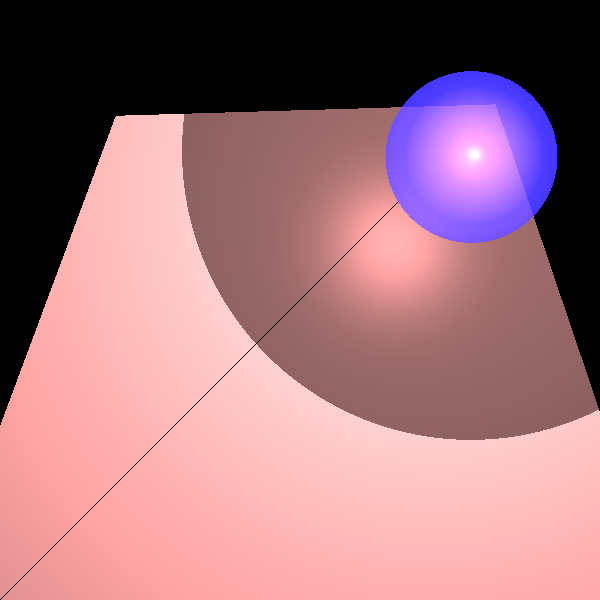
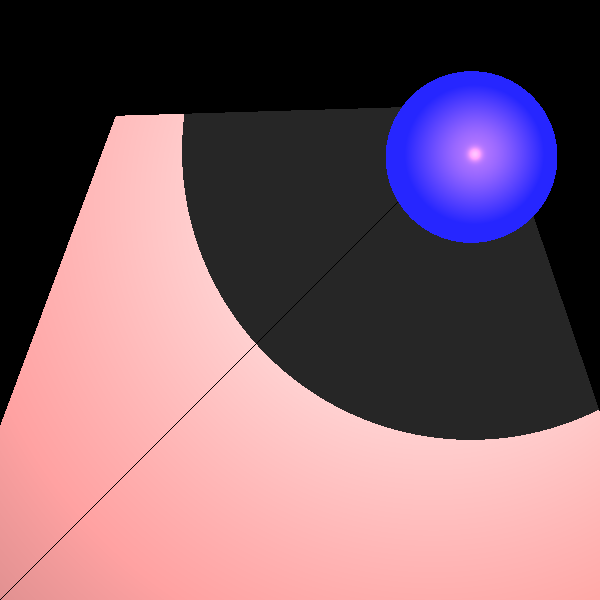
with bowling:)

diff --git a/unitTests/renderer/level7Test.java b/unitTests/renderer/level7Test.java
@@ -2,6 +2,8 @@ package renderer;
 
 import geometries.*;
 import lighting.AmbientLight;
+import lighting.DirectionalLight;
+import lighting.PointLight;
 import lighting.SpotLight;
 import org.junit.jupiter.api.Test;
 import primitives.*;
@@ -15,10 +17,10 @@ public class level7Test {
     /** Camera builder of the tests */
     private final Camera.Builder camera     = Camera.getBuilder()
             .setDirection(new Vector(0, 0, -1), new Vector(0, 1, 0))
+            .setLocation(new Point(0, 0, 1000)).setVpDistance(1000)
             .setLocation(new Point(30, 20, 1000)).setVpDistance(1000)
             .setVpSize(200, 200)
             .setRayTracer(new SimpleRayTracer(scene));
-
     // private final Scene          scene         = new Scene("Test scene");
     /** Camera builder for the tests with triangles */
     private final Camera.Builder cameraBuilder = Camera.getBuilder()
@@ -26,35 +28,28 @@ public class level7Test {
             .setRayTracer(new SimpleRayTracer(scene));
 
     /** The sphere in the tests */
-    private final Intersectable sphere     = new Sphere(new Point(0, -50, -200), 60d)
+    private final Intersectable sphere     = new Sphere(new Point(0, 0, -750), 60d)
             .setEmission(new Color(RED))
             .setMaterial(new Material().setKd(0.5).setKs(0.5).setShininess(30));
     /** The material of the triangles in the tests */
     private final Material       trMaterial = new Material().setKd(0.5).setKs(0.5).setShininess(30);
 
-    /** Helper function for the tests in this module
-     * @param pictName     the name of the picture generated by a test
-     * @param triangle     the triangle in the test
-     * @param spotLocation the spotlight location in the test */
-    private void sphereTriangleHelper(String pictName, Sphere triangle, Point spotLocation) {
-        scene.geometries.add(sphere, triangle.setEmission(new Color(BLUE)).setMaterial(trMaterial));
+    @Test
+    public void Move2() {
+        Sphere s=new Sphere(new Point(-49, -40, 200),10d);
+        Point spotLocation=new Point(900, 900, -1000);
+        scene.geometries.add(sphere, s.setEmission(new Color(BLUE)).setMaterial(trMaterial));
         scene.lights.add( //
                 new SpotLight(new Color(400, 240, 0), spotLocation, new Vector(1, 1, -3)) //
                         .setKl(1E-5).setKq(1.5E-7));
 
-        camera.setImageWriter(new ImageWriter(pictName, 1000, 1000))
+        camera.setImageWriter(new ImageWriter("Move2", 1000, 1000))
                 .build()
                 .renderImage() //
                 .writeToImage();
     }
 
-    /** Sphere-Triangle shading - move triangle upper-righter */
-    @Test
-    public void sphereTriangleMove2() {
-        sphereTriangleHelper("Move2", //
-                new Sphere(new Point(75, 47, 300),15d), //
-                new Point(900, 900, -1000));
-    }
+
 
 
     @Test
@@ -97,51 +92,24 @@ public class level7Test {
                 .renderImage()
                 .writeToImage();
     }
-    @Test
-    public void l7() {
-        scene.geometries.add(
-                new Sphere(new Point(-200, -200, -3), 50d).setEmission(new Color(YELLOW))
-                        .setMaterial(new Material().setKd(0.5).setKs(0.5).setShininess(30)),
-                new Sphere(new Point(-400, -200, 0), 20).setEmission(new Color(RED))
-                        .setMaterial(new Material().setKd(0.5).setKs(0.5).setShininess(30)),
-                new Sphere(new Point(0, 30, 0), 10).setEmission(new Color(PINK))
-                        .setMaterial(new Material().setKd(0.5).setKs(0.5).setShininess(30)),
-                new Sphere(new Point(0, -660, -400), 50d).setEmission(new Color(RED))
-                        .setMaterial(new Material().setKd(0.5).setKs(0.5).setShininess(30)),
-                new Sphere(new Point(120, -600, -400), 50).setEmission(new Color(PINK))
-                        .setMaterial(new Material().setKd(0.5).setKs(0.5).setShininess(30)),
-                new Sphere(new Point(120, -620, -400), 50d).setEmission(new Color(RED))
-                        .setMaterial(new Material().setKd(0.5).setKs(0.5).setShininess(30)),
-                new Sphere(new Point(120, -640, -400), 50).setEmission(new Color(PINK))
-                        .setMaterial(new Material().setKd(0.5).setKs(0.5).setShininess(30)),
-                new Sphere(new Point(120, -660, -400), 50d).setEmission(new Color(RED))
-                        .setMaterial(new Material().setKd(0.5).setKs(0.5).setShininess(30)),
-                new Sphere(new Point(120, -700, -400), 50d).setEmission(new Color(WHITE))
-                        .setMaterial(new Material().setKd(0.5).setKs(0.5).setShininess(30)),
-                new Sphere(new Point(0, -700, -400), 50d).setEmission(new Color(WHITE))
-                        .setMaterial(new Material().setKd(0.5).setKs(0.5).setShininess(30)));
-//                new Cylinder(10.0,new Ray(new Point(0, -400, 0),new Vector(1 ,0, 0),new Vector(0, 1, 0)),50)
-//                        .setEmission(new Color(yellow)).setMaterial(new Material().setKd(0.5).setKs(0.5).setShininess(30)));
-//                new Tube(new Ray(new Point(550, 0, -550),new Vector(1 ,0, 0),new Vector(1, 1, 0)),40)
-//                        .setEmission(new Color(yellow)).setMaterial(new Material().setKd(0.5).setKs(0.5).setShininess(30)),
-//                 new Tube(new Ray(new Point(700, 80, -700),new Vector(1 ,0, 0),new Vector(1, 1, 0)),40));
-//        scene.lights.add(
-//                new SpotLight(new Color(400, 240, 0), new Point(-200, -200, 0), new Vector(1, 1, -3))
-//                        .setKl(1E-5).setKq(1.5E-7));
 
-        scene.lights.add(
-                new SpotLight(new Color(400, 240, 0), new Point(0, 1, 0), new Vector(1, 1, 1))
-                        .setKl(1E-5).setKq(1.5E-7));
 
-        //   scene.background= new Color(25,250,60);
-        cameraBuilder.setLocation(new Point(0, -30, 1000)).setVpDistance(1000)
-                .setVpSize(1000, 1000)
-                .setImageWriter(new ImageWriter("move 2" +
-                        "", 1000, 1000))
-                .build()
-                .renderImage()
-                .writeToImage();
+
+
+
+
+
+
+
+
+
+
+
+
     }
 
-}
+
+
+
+
 

diff --git a/unitTests/renderer/TestForProject.java b/unitTests/renderer/TestForProject.java
@@ -1,0 +1,94 @@
+package renderer;
+
+import java.util.*;
+import primitives.*;
+import geometries.*;
+import primitives.Vector;
+import renderer.*;
+import lighting.*;
+import org.junit.jupiter.api.Test;
+import scene.Scene;
+
+import static java.awt.Color.*;
+
+public class TestForProject{
+
+    private Scene scene = new Scene("Bowling Scene");
+
+    public void addPin(Point p)
+    {
+        scene.geometries.add(
+                new Sphere(new Point(p.getX(), 1.1, p.getZ()), 2).setEmission(new Color(WHITE))
+                ,new Cylinder(2.2,new Ray(new Point(p.getX(), 0.6, p.getZ()), new Vector(0, 1, 0)), 2).setEmission(new Color(WHITE))
+                ,new Sphere(new Point(p.getX(), 3.1, p.getZ()), 2).setEmission(new Color(WHITE))
+                ,new Cylinder(3,new Ray(new Point(p.getX(), 4.6, p.getZ()), new Vector(0, 1, 0)), 1).setEmission(new Color(RED))
+                ,new Cylinder(0.6,new Ray(new Point(p.getX(), 5.3, p.getZ()), new Vector(0, 1, 0)), 1.01).setEmission(new Color(WHITE))
+                ,new Sphere(new Point(p.getX(), 7.3, p.getZ()), 1.25).setEmission(new Color(WHITE))
+                ,new Cylinder(1,new Ray(new Point(p.getX(), 7.6, p.getZ()), new Vector(0, 1, 0)), 1.25).setEmission(new Color(WHITE))
+                ,new Sphere(new Point(p.getX(), 8.3, p.getZ()), 1.25).setEmission(new Color(WHITE))
+
+        );
+    }
+
+    @Test
+    public void Bowling() {
+        // Building the camera with the builder
+        Camera.Builder cameraBuilder = Camera.getBuilder()
+                .setLocation(new Point(-60, 20, 10))
+                .setDirection(new Vector(70, -20, -10), new Vector(1, 3.5, 0))
+                .setVpSize(150, 150)
+                .setVpDistance(100)
+                .setRayTracer(new SimpleRayTracer(scene));
+
+        // Setting up the scene
+        scene.setBackground(new Color(173, 216, 230));
+        scene.geometries.add(new Plane(new Point(10, -0.5, 0), new Vector(0, 1, 0)).setEmission(new Color(0, 100, 0)) //
+                .setMaterial(new Material()));
+
+        scene.geometries.add(
+                new Polygon(
+                        new Point(60, 0, -20),
+                        new Point(60, 0, 20),
+                        new Point(-60, 0, 20),
+                        new Point(-60, 0, -20)
+                ).setMaterial(new Material().setKr(0.5).setKd(0.5).setKs(0.3))
+        );
+
+
+/*
+        addPin(new Point(10 + 3 * Math.sqrt(27), 0, -9));
+        addPin(new Point(10 + 3 * Math.sqrt(27), 0, -3));
+        addPin(new Point(10 + 3 * Math.sqrt(27), 0, 3));
+        addPin(new Point(10 + 3 * Math.sqrt(27), 0, 9));
+
+        addPin(new Point(10 + 2 * Math.sqrt(27), 0, -6));
+        addPin(new Point(10 + 2 * Math.sqrt(27), 0, 0));
+        addPin(new Point(10 + 2 * Math.sqrt(27), 0, 6));
+
+        addPin(new Point(10 + Math.sqrt(27), 0, -3));
+        addPin(new Point(10 + Math.sqrt(27), 0, 3));
+
+        addPin(new Point(10, 0, 0));
+*/
+        scene.geometries.add(
+                new Sphere(new Point(-40, 4, 0), 4)
+                        .setMaterial(new Material().setKd(0.5).setKs(0.5).setShininess(300))
+                        .setEmission(new Color(RED)),
+                new Sphere(new Point(-40, 4.504, 0), 3.5).setEmission(new Color(128, 0, 0)),
+                new Sphere(new Point(-40.115, 4.486, 0.06), 3.5).setEmission(new Color(128, 0, 0)),
+                new Sphere(new Point(-40.115, 4.486, -0.06), 3.5).setEmission(new Color(128, 0, 0))
+        );
+
+        scene.lights.add(new SpotLight(new Color(0, 510, 0), new Point(0, 0, 0), new Vector(1, 0, 0)) //
+                .setKl(1).setKq(1));
+
+        scene.lights.add(new PointLight(new Color(WHITE), new Point(-60, 20, -20)).setKl(0.001).setKq(0.0002));
+        scene.lights.add(new PointLight(new Color(BLUE), new Point(-40, 20, 20)).setKl(0.0005).setKq(0.0001));
+
+        // Rendering the image
+        cameraBuilder.setImageWriter(new ImageWriter("Bowling", 1500, 1500))
+                .build()
+                .renderImage()
+                .writeToImage();
+    }
+}

diff --git a/src/geometries/Cylinder.java b/src/geometries/Cylinder.java
@@ -8,6 +8,7 @@ import java.util.LinkedList;
 import java.util.List;
 
 import static primitives.Util.alignZero;
+import static primitives.Util.isZero;
 
 /**
  * This class represents a cylinder in 3D space, defined by a height, an axis ray, and a radius.
@@ -40,29 +41,34 @@ public class Cylinder extends Tube {
     }
 
     @Override
-    public Vector getNormal(Point p) {
-        // same point of the center base 1
-        if (p.equals(axisRay.getHead()))
+    public Vector getNormal(Point point) {
+        double distanceBase1 = point.distance(axisRay.getHead());
+        Vector axisVec = axisRay.getDirection();
+
+        // the point is P0
+        if (isZero(distanceBase1))
             return axisRay.getDirection().scale(-1).normalize();
-            // same point of the center base 2
-        else if (p.equals(this.axisRay.getPoint(height)))
-            return this.axisRay.getDirection();
-
-        //find the distance between p0 to o
-        double t=this.axisRay.getDirection().dotProduct(p.subtract(axisRay.getHead()));
-
-        // if t = 0 is mean that on base 1
-        if (t == 0)
-            return this.axisRay.getDirection().scale(-1).normalize();
-            // point on base 2
-        else if (t == height)
-            return this.axisRay.getDirection();
-            //point like tube on casing
-        else if (t > 0 && t < this.height)
-            return super.getNormal(p);
-        else
-            throw new IllegalArgumentException("the point not in the range");
+        Point centerBase2 = axisRay.getHead().add(axisVec.scale(height));
+        double distanceBase2 = centerBase2.distance(point);
+        // point is on the center of the far side from P0
+        if (isZero(distanceBase2))
+            return axisVec.normalize();
+            // point is on the close side to P0
+        else if (distanceBase1 < radius && distanceBase2 > distanceBase1)
+            return axisVec.scale(-1).normalize();
+            // point is on the far side from P0
+        else if (distanceBase2 < radius && distanceBase1 > distanceBase2)
+            return axisVec.normalize();
+        else {
+            double t = axisRay.getDirection().dotProduct(point.subtract(axisRay.getHead()));
+            Point O = axisRay.getHead().add(axisRay.getDirection().scale(t));
+            Vector v = point.subtract(O);
+            return v.normalize();
+        }
     }
+
+
+
     /**
      * find intersection points between ray and 3D cylinder
      * @param ray ray towards the sphere

diff --git a/src/primitives/Point.java b/src/primitives/Point.java
@@ -107,4 +107,8 @@ public class Point {
     public double getX() {
         return xyz.d1;
     }
+
+    public double getZ() {
+        return xyz.d3;
+    }
 }
